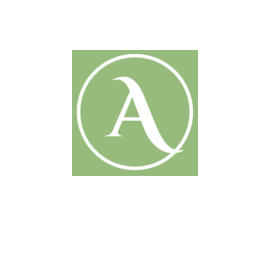
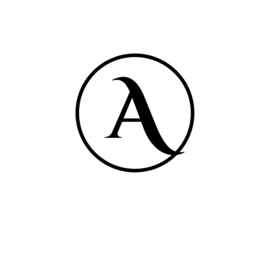
Facicon added

Changed region(s): [[0.2667, 0.1778, 0.7407, 0.6519]]

diff --git a/index.html b/index.html
@@ -2,12 +2,19 @@
 <html lang="en">
   <head>
     <meta charset="UTF-8" />
-    <link rel="icon" type="image/svg+xml" href="/vite.svg" />
+    <!-- <link rel="icon" type="image/svg+xml" href="/vite.svg" /> -->
     <meta name="viewport" content="width=device-width, initial-scale=1.0" />
     <title>ArcLab - Transforming Visions into Reality</title>
     <link rel="preconnect" href="https://fonts.googleapis.com">
     <link rel="preconnect" href="https://fonts.gstatic.com" crossorigin>
     <link href="https://fonts.googleapis.com/css2?family=Nunito+Sans:ital,opsz,wght@0,6..12,200..1000;1,6..12,200..1000&display=swap" rel="stylesheet">
+    <link rel="apple-touch-icon" sizes="180x180" href="/apple-touch-icon.png">
+    <link rel="icon" type="image/png" sizes="32x32" href="/favicon-32x32.png">
+    <link rel="icon" type="image/png" sizes="16x16" href="/favicon-16x16.png">
+    <link rel="manifest" href="/site.webmanifest">
+    <link rel="mask-icon" href="/safari-pinned-tab.svg" color="#96bb7c">
+    <meta name="msapplication-TileColor" content="#ffffff">
+    <meta name="theme-color" content="#ffffff">
   </head>
   <body>
     <div id="root"></div>
